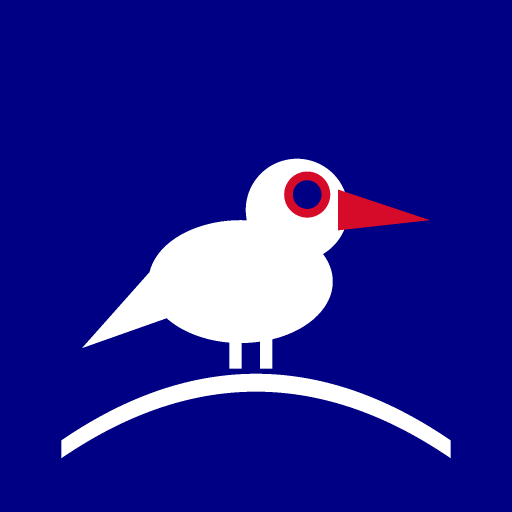
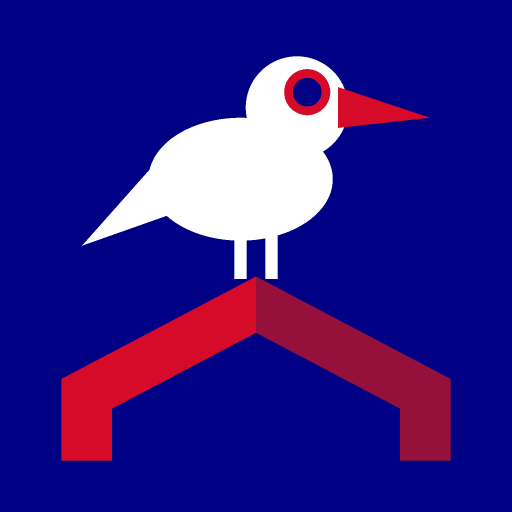
Beeldmerk: ossenpikker op het ERA-dak, ook in appbalk en inlogscherm

Changed region(s): [[0.0938, 0.0938, 0.9062, 0.9062]]

diff --git a/src/app/Layout.tsx b/src/app/Layout.tsx
@@ -17,6 +17,7 @@ export function Layout({ children, fout, melding, sluitMelding }: { children: Re
         </div>
       )}
       <header className={`appbalk ${heeftTestdata ? '' : 'zonder-strook'}`}>
+        <img className="appmerk" src={`${import.meta.env.BASE_URL}icon.svg`} alt="" width="28" height="28" />
         <span className="appnaam">{MERK.naam}</span>
         <span className="appondertitel">{MERK.ondertitel}</span>
       </header>

diff --git a/src/app/styles.css b/src/app/styles.css
@@ -424,3 +424,6 @@ a { color: var(--rood); }
 .belkaart > .knoppenrij { flex-wrap: nowrap; }
 .belkaart > .knoppenrij .knop { padding-left: 12px; padding-right: 12px; }
 .belkaart > .knoppenrij .belknop { flex: 1 1 auto; min-width: 0; font-size: 0.92rem; }
+.appbalk { align-items: center; }
+.appmerk { border-radius: 6px; flex: none; }
+.login-icoon { border-radius: 16px; margin-bottom: 14px; display: block; }

diff --git a/src/app/Login.tsx b/src/app/Login.tsx
@@ -21,6 +21,7 @@ export function Login() {
 
   return (
     <main className="pagina login">
+      <img className="login-icoon" src={`${import.meta.env.BASE_URL}icon.svg`} alt="" width="72" height="72" />
       <div className="login-merk">
         <span className="appnaam">{MERK.naam}</span>
         <span className="appondertitel">{MERK.ondertitel}</span>

diff --git a/CHANGELOG.md b/CHANGELOG.md
@@ -5,7 +5,7 @@
 ### Gewijzigd
 - De app heet voortaan **Oxpecker** (ERA Inkoop Assist), naar de ossenpikker op de neushoorn: altijd aanwezig, nooit opdringerig. De Dagplanner is de eerste module.
 - **ERA-huisstijl** afgeleid van era.be: blauw #000085, rood #D60A29, grijs #6E6F72; titels vet in hoofdletters; rode knoppen met donker schuin hoekje; Montserrat (in de app gebundeld) als alternatief voor Gotham.
-- Nieuwe appbalk, lijnicoontjes in de menubalk, en een app-icoon met een ossenpikker (witte vogel, rode snavel) op ERA-blauw.
+- Nieuwe appbalk, lijnicoontjes in de menubalk, en een beeldmerk: een ossenpikker (witte vogel, rode snavel) op de nok van een tweekleurig rood dak — een knipoog naar het ERA-dak — op ERA-blauw. Ook klein in de appbalk en op het inlogscherm.
 - Mail opent standaard in **Outlook** (instelbaar).
 - Tijdelijke **testlink naar ERAForce voor alle contacten** (Instellingen → ERAForce); verdwijnt bij de mirror.
 - Het officiële ERA-logo wordt pas toegevoegd met het bestand en akkoord van ERA Marketing.
